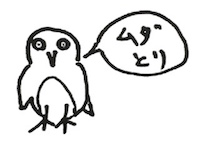
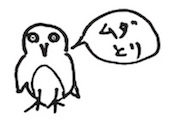
Rev.05 submission

diff --git a/index.html b/index.html
@@ -66,7 +66,7 @@
             
             <div class="tab-pane fade active in" id="profile">
               <p>　製造メーカーにおける工場の物流とその改善を仕事にしている者です。
-              工場を病院の患者として見ると、私の仕事は循環器内科といったところで、
+              工場を病院の患者に例えるなら、私の仕事は循環器内科の医師といったところで、
               工場全体のモノの流れの良い所や悪い所がよく見える仕事をしています。
               そして、実務においては「手で考え、足で思え」という現地現物を重んじる
               姿勢で仕事に取り組み、主にpull生産方式のテクニック活用を得意としています。
@@ -77,21 +77,24 @@
               </br>
               　ここには地味ながら製造や物流の現場で役立ちそうなものを公開していきたいと思います。
               </p>
+              <div id="sensei"><img src="kaizen02.JPG"></div>
+              </br>
+            
             </div>
             
             <div class="tab-pane fade" id="Applications">
-              <img src="app01.png">
+              <a href="#"><img src="app01.png"></a>
               </br>
               </br>
-              <img src="app02.png">
+              <a href="#"><img src="app02.png"></a>
               </br>
               </br>
-              <img src="app03.png">
+              <a href="#"><img src="mudatori02.jpg"></a>
+              </br>
+              <p>仕事のムダをついばんでくれる鳥さんのアプリです</p>
               </br>
               </br>
-              <img src="app04.png">
-              </br>
-              </br>
+              
             </div>
             
   

diff --git a/style.css b/style.css
@@ -14,7 +14,7 @@ body	{font-family: 'メイリオ', 'Hiragino Kaku Gothic Pro', sans-serif;}
 	background-color: #ffffff;
 	text-align: center;}
 	
-.header h1 {font-size: 20px;}
+.header h1 {font-size: 25px;}
 	
 	
 /* メニュー */
@@ -35,6 +35,11 @@ body	{font-family: 'メイリオ', 'Hiragino Kaku Gothic Pro', sans-serif;}
 
 #profile p {font-size: 14px;}
 
+#sensei {text-align: right;}
+
+
+
+
 #Applications{
 	margin:15px;
 }
@@ -44,8 +49,8 @@ body	{font-family: 'メイリオ', 'Hiragino Kaku Gothic Pro', sans-serif;}
 /* フッター */
 
 .footer {
-	margin: 30px;
-	padding: 12px;
+	margin: 0px;
+	padding: 0px;
 	background-color: #ffffff;
 	text-align: center;}
 	
